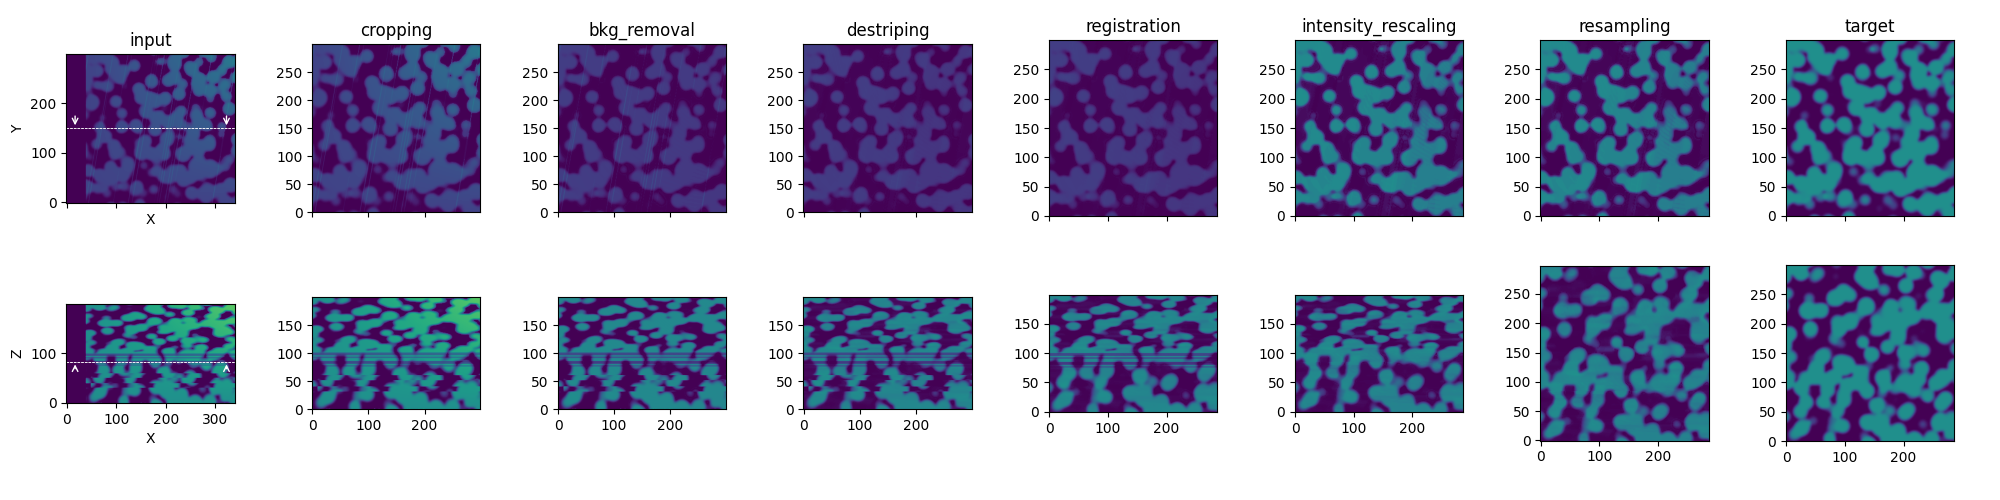
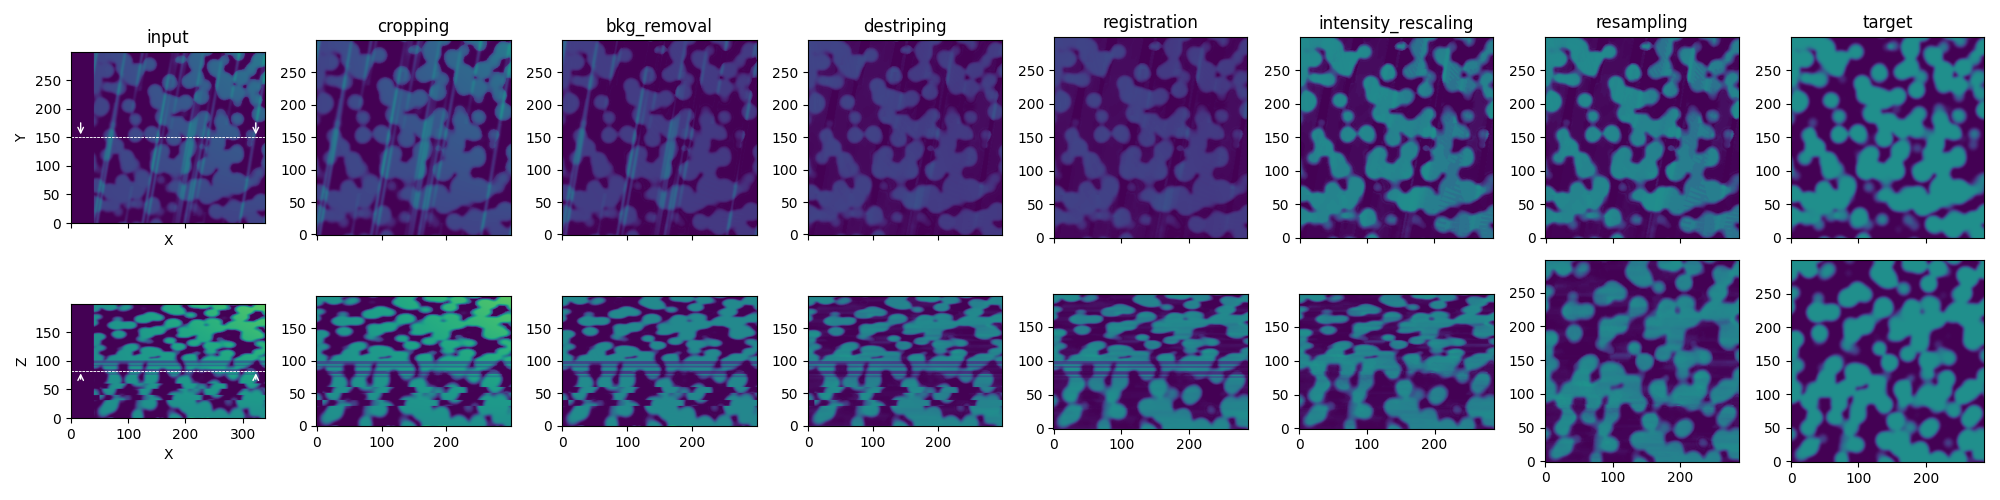
add pystack3d.png in the README.md

diff --git a/README.md b/README.md
@@ -28,7 +28,12 @@ The ``pystack3d`` workflow includes the following process steps which can be act
 An additional step named `cropping_final` can be used to eliminate artefacts produced near the edges during the image processing or to select another ROI at the end.
 
 <p align="center" width="100%">
-    <img align="center" width=100%" src=doc/_static/process_steps_real.png> <br>
+    <img align="center" width=80%" src=https://cea-metrocarac.github.io/pystack3d/pystack3d.png> <br>
+    <em>a) Synthetic case illustrating the defects to be removed by <b>PyStack3D</b>. b) Corrected stack. c) Ground truth.</em>
+</p>
+
+<p align="center" width="100%">
+    <img align="center" width=100%" src=https://cea-metrocarac.github.io/pystack3d/process_steps_real.png> <br>
     <em>Illustration of a FIB-SEM image correction using some of the <b>PyStack3D</b> process steps.</em>
 </p>
 
